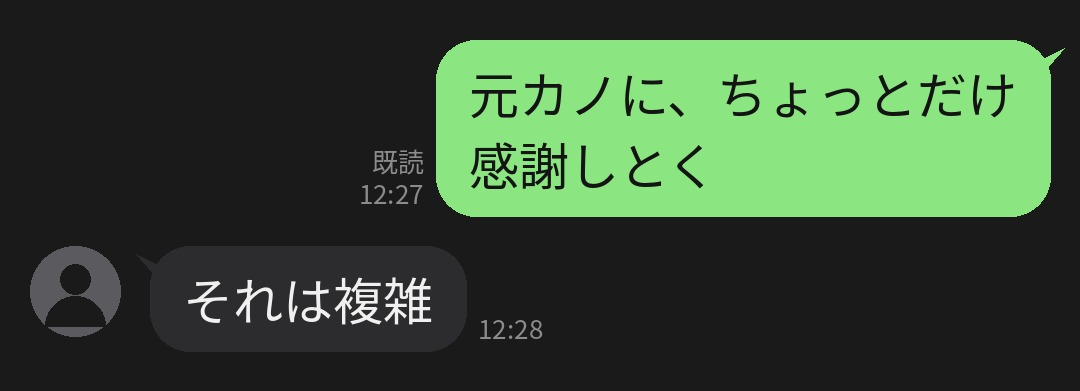
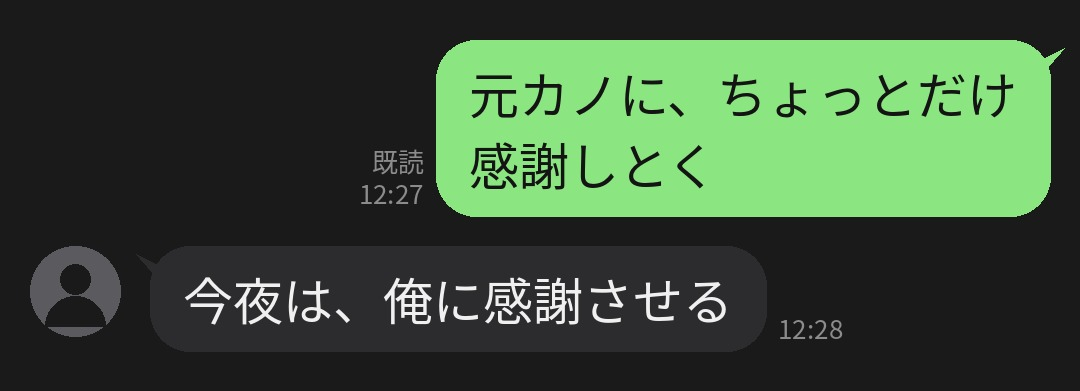
No.35 9枚目の返しを「今夜は、俺に感謝させる」に変更
Claude-Session: https://claude.ai/code/session_01BYBmBvznVWhAgsHTXx74AL

Changed region(s): [[0.3056, 0.7059, 0.6722, 0.89], [0.1528, 0.7059, 0.275, 0.8286], [0.7333, 0.798, 0.7944, 0.89]]

diff --git a/hikaku15/plans/035/09.md b/hikaku15/plans/035/09.md
@@ -4,7 +4,7 @@
 
 ① 画面に並べるもの（上から順に。この文字だけを正確に描く）：
 ・私（右の緑の吹き出し・既読つき）12:27：「元カノに、ちょっとだけ感謝しとく」　→16文字・2行・吹き出しの幅は横幅の約64％
-・りょう（左の濃い灰色の吹き出し）12:28：「それは複雑」　→5文字・1行・吹き出しの幅は横幅の約30％
+・りょう（左の濃い灰色の吹き出し）12:28：「今夜は、俺に感謝させる」　→11文字・1行・吹き出しの幅は横幅の約59％
 ③ 注意点：生成は横長3:2。共通設定の【縮尺】どおり、本物のLINEのスクショと同じ大きさの文字と吹き出しで描く（1文字の幅＝横幅の約4.8％、1行は最大12文字。文字を小さくしない）。吹き出しは画面の上下の真ん中あたりに、本物のLINEと同じ狭い間隔（相手と自分が入れ替わるところも横幅の約1.3％、約20pxだけ）でぎゅっと詰めて並べ、上下の余白は背景の黒だけにする（あとで切り取るため、余白に何も描かない）。トーク画面の切り抜きだけを描き、スマホの外枠や入力欄は描かない。指定のない吹き出し・文字・ロゴは描かない。性的な絵は描かない
 ④ 保存の前に：共通設定の【トリミング】の手順で、上下の余白を切り取る（左右は切らない）。上下とも、いちばん外側の吹き出し（写真）から少しだけ余白を残して切る。切り抜き後の比率の目安：横:縦＝3.41:1
 
